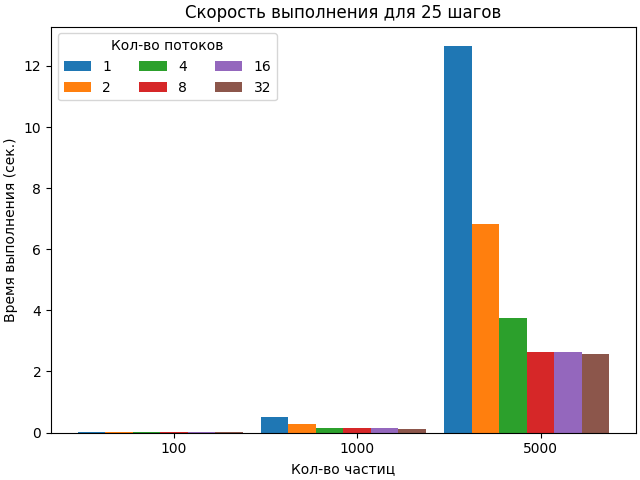
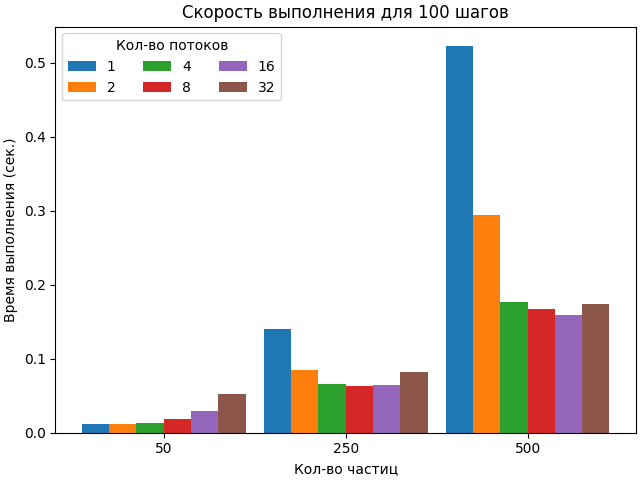
C89 | Threads | update figures and code style

diff --git a/C89/Threads/generate_data.py b/C89/Threads/generate_data.py
@@ -1,22 +1,36 @@
 import random
 import argparse
 
+
 def handle_args():
     parser = argparse.ArgumentParser()
-    parser.add_argument('particles_count', action='store', type=int, help='Number of particles')
-    parser.add_argument('steps', action='store', type=int, help='Number of steps')
-    parser.add_argument('filename', action='store', type=str, help='Destination of generation')
+    parser.add_argument('particles_count', action='store',
+                        type=int, help='Number of particles')
+    parser.add_argument('steps', action='store',
+                        type=int, help='Number of steps')
+    parser.add_argument('filename', action='store', type=str,
+                        help='Destination of generation')
 
-    parser.add_argument('-mmin', type=float, help="Minimum mass for body (default=10000.0)", default=10000.0)
-    parser.add_argument('-mmax', type=float, help="Maximum mass for body (default=50000.0)", default=50000.0)
-    parser.add_argument('-xmin', type=float, help="Minimum x position for body (default=-10.0)", default=-10.0)
-    parser.add_argument('-xmax', type=float, help="Maximum x position for body (default=10.0)", default=10.0)
-    parser.add_argument('-ymin', type=float, help="Minimum y position for body (default=-10.0)", default=-10.0)
-    parser.add_argument('-ymax', type=float, help="Maximum y position for body (default=10.0)", default=10.0)
-    parser.add_argument('-vxmin', type=float, help="Minimum speed projection on x for body (default=-5.0)", default=-5.0)
-    parser.add_argument('-vxmax', type=float, help="Maximum speed projection on x for body (default=5.0)", default=5.0)
-    parser.add_argument('-vymin', type=float, help="Minimum speed projection on y for body (default=-5.0)", default=-5.0)
-    parser.add_argument('-vymax', type=float, help="Maximum speed projection on y for body (default=5.0)", default=5.0)
+    parser.add_argument(
+        '-mmin', type=float, help="Minimum mass for body (default=10000.0)", default=10000.0)
+    parser.add_argument(
+        '-mmax', type=float, help="Maximum mass for body (default=50000.0)", default=50000.0)
+    parser.add_argument(
+        '-xmin', type=float, help="Minimum x position for body (default=-10.0)", default=-10.0)
+    parser.add_argument(
+        '-xmax', type=float, help="Maximum x position for body (default=10.0)", default=10.0)
+    parser.add_argument(
+        '-ymin', type=float, help="Minimum y position for body (default=-10.0)", default=-10.0)
+    parser.add_argument(
+        '-ymax', type=float, help="Maximum y position for body (default=10.0)", default=10.0)
+    parser.add_argument(
+        '-vxmin', type=float, help="Minimum speed projection on x for body (default=-5.0)", default=-5.0)
+    parser.add_argument(
+        '-vxmax', type=float, help="Maximum speed projection on x for body (default=5.0)", default=5.0)
+    parser.add_argument(
+        '-vymin', type=float, help="Minimum speed projection on y for body (default=-5.0)", default=-5.0)
+    parser.add_argument(
+        '-vymax', type=float, help="Maximum speed projection on y for body (default=5.0)", default=5.0)
 
     return parser.parse_args()
 

diff --git a/C89/Threads/analyze_data.py b/C89/Threads/analyze_data.py
@@ -3,21 +3,23 @@ import time
 import matplotlib.pyplot as plt
 import numpy as np
 
-PYTHON_BIN = "python3.10"
+PYTHON_BIN = "python3"
 C_BIN = "build/app"
 
 steps = 100
-particles = (100, 1000, 5000)
+particles = (50, 250, 500)
 threads = (1, 2, 4, 8, 16, 32)
 
-values = {i:[] for i in threads}
+values = {i: [] for i in threads}
 os.system("mkdir data")
 for particles_count in particles:
     for threads_count in threads:
         print(f"Start {particles_count} particles for {threads_count} threads")
-        os.system(f"{PYTHON_BIN} generate_data.py {particles_count} {steps} data/input_{particles_count}_{steps}")
+        os.system(
+            f"{PYTHON_BIN} generate_data.py {particles_count} {steps} data/input_{particles_count}_{steps}")
         start_time = time.time()
-        os.system(f"{C_BIN} data/input_{particles_count}_{steps} data/output_{particles_count}_{steps} {threads_count}")
+        os.system(
+            f"{C_BIN} data/input_{particles_count}_{steps} data/output_{particles_count}_{steps} {threads_count}")
         execute_time = time.time() - start_time
         values[threads_count].append(execute_time)
         print(f"Result = {execute_time}")
@@ -35,8 +37,10 @@ for attribute, measurement in values.items():
 ax.set_title(f'Скорость выполнения для {steps} шагов')
 ax.set_xlabel('Кол-во частиц')
 ax.set_ylabel('Время выполнения (сек.)')
-ax.set_xticks(x + width * len(threads) / 2, particles)
-ax.legend(loc='upper left', ncols=len(threads) / 2, title="Кол-во потоков")
+ax.set_xticks(np.arange(len(particles)) + width *
+              (len(threads) / 2 - 0.5), map(str, particles))
+ax.legend(loc='upper left', ncols=len(
+    threads) / 2, title="Кол-во потоков")
 
 plt.savefig("figure.png")
 plt.show()
